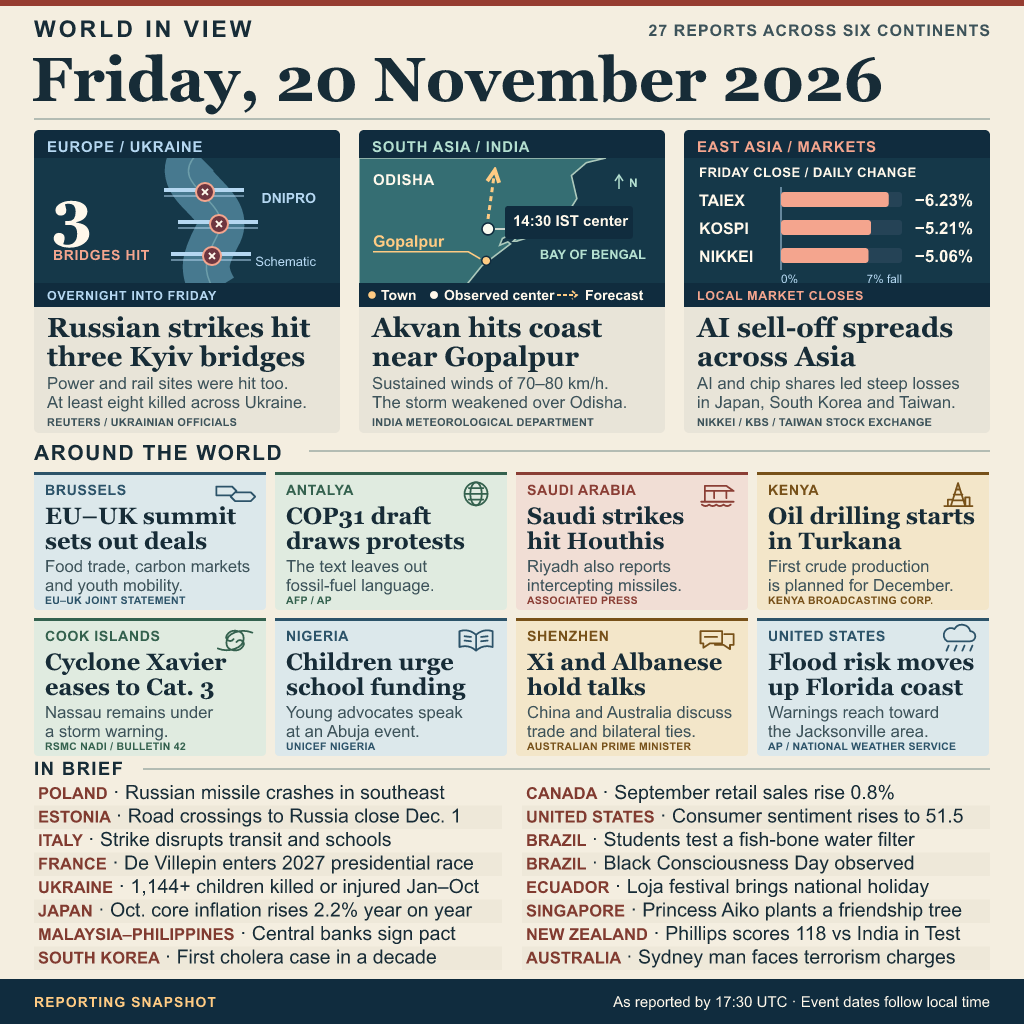
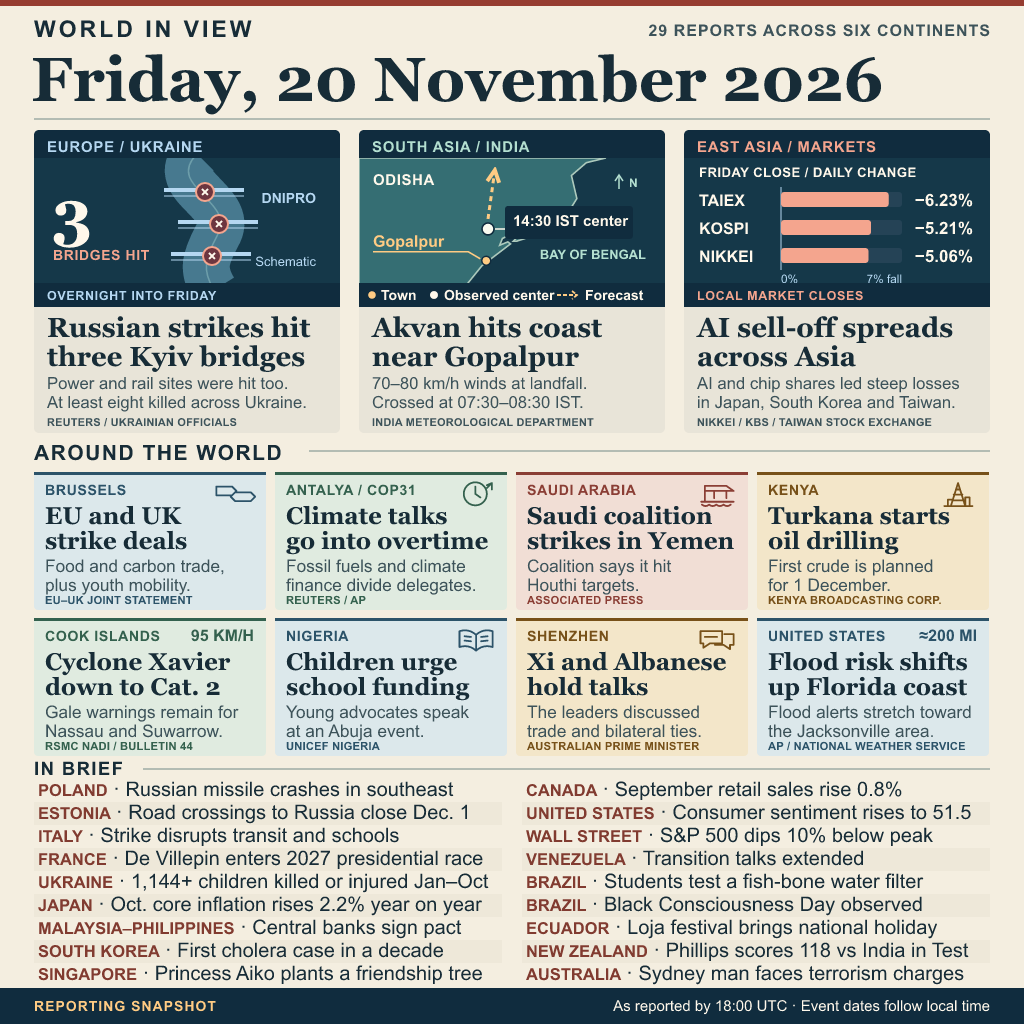
Update verified headlines and finish the 29-report edition

diff --git a/README.md b/README.md
@@ -4,7 +4,7 @@
 [![rank](https://make.fun/badge/news-image-20261120/yossapr/world-news-20261120/rank.svg)](https://make.fun/bounty/news-image-20261120/leaderboard)
 [![reward](https://make.fun/badge/news-image-20261120/yossapr/world-news-20261120/reward.svg)](https://make.fun/bounty/news-image-20261120)
 
-An illustrated snapshot of Friday, 20 November 2026, with 27 reports across six continents. It leads with the strikes in Ukraine, Cyclone Akvan's landfall in India, and the Asia-wide equity sell-off. The reporting cutoff is 17:30 UTC. Each event or material update is dated in its local time.
+An illustrated snapshot of Friday, 20 November 2026, with 29 reports across six continents. It leads with the strikes in Ukraine, Cyclone Akvan's landfall in India, and the Asia-wide equity sell-off. The reporting cutoff is 18:00 UTC. Each event or material update is dated in its local time.
 
 ![World in View front page](front-page.png)
 
@@ -23,14 +23,14 @@ Node 22 writes the checked-in edition to `entry.png` using the standard library.
 | Kyiv | Russian attacks overnight into Friday hit three Kyiv bridges over the Dnipro and damaged electricity and rail infrastructure. Officials reported six deaths in Kyiv and two in Lviv. The figure on the page is nationwide. | [Reuters](https://www.investing.com/news/commodities-news/eight-killed-in-ukraine-as-russia-hits-back-after-crimea-bridge-attacks-5041652) |
 | Akvan | Landfall near Gopalpur between 07:30 and 08:30 IST with 70–80 km/h sustained winds. The map shows the observed inland center at 14:30 IST, at 20.0°N, 84.9°E. | [IMD landfall release](https://internal.imd.gov.in/press_release/20261120_pr_5512.pdf), [IMD Bulletin 40](https://mausam.imd.gov.in/backend/assets/cyclone_pdf/40__National_Bulletin_No_40-20Nov2026_1430IST_docx.pdf) |
 | Asia equities | Friday's local closing changes were TAIEX −6.23%, KOSPI −5.21% and Nikkei 225 −5.06%. | [Taiwan Stock Exchange](https://www.twse.com.tw/exchangeReport/MI_INDEX?date=20261120&response=html&type=ALLBUT0999), [KBS](https://rki.kbs.co.kr/service/news_view.htm?Seq_Code=205717&lang=e), [Nikkei](https://indexes.nikkei.co.jp/nkave/archives/summary?dt=20261120&idx=nk225) |
-| Brussels | The EU–UK summit statement sets out steps on food trade, emissions trading and youth mobility. Further implementation remains ahead. | [EU–UK joint statement](https://assets.publishing.service.gov.uk/media/6b003dbde43662b58d107613/EU-UK_Summit_Joint_Statement_2026.docx.pdf) |
-| Antalya | Delegates and campaigners reacted on Friday to a COP31 draft that omitted fossil-fuel language. The visual describes the contested draft stage. | [AFP](https://www.afp.com/en/cop31-deal-elusive-fossil-fuel-fight-deepens), [AP](https://apnews.com/article/a683c5c87a7ee64caf4e9257948b6e40) |
-| Saudi Arabia and Yemen | AP reported Saudi strikes on Houthi targets and Saudi claims that it intercepted missiles. | [AP](https://apnews.com/article/16c39c487a23b53b73c5eabb7f0fd57a) |
-| Kenya | Gulf Energy began drilling in South Lokichar, Turkana. The December start date refers to planned oil production. | [Kenya Broadcasting Corporation](https://www.kbc.co.ke/kenya-begins-commercial-crude-oil-drilling-in-south-lokichar/) |
-| Cook Islands | RSMC Nadi reported Xavier at Category 3 and a continuing storm warning for Nassau. See Special Advisory 42, issued 20 November at 11:26 UTC. | [Fiji Meteorological Service warnings](https://www.met.gov.fj/warnings/) |
+| Brussels | Negotiations concluded on food checks, linking emissions trading systems and a youth mobility scheme. The agreements still require legal steps before taking effect. | [EU–UK joint statement, paragraphs 39 and 48–50](https://www.gov.uk/government/publications/ukeu-summit-2026-key-documents/uk-eu-summit-2026-joint-statement-html) |
+| Antalya | COP31 moved into overtime on Friday as delegations remained divided over fossil fuels and climate finance. An earlier draft omitted language on phasing out fossil fuels. | [Reuters](https://malaysia.news.yahoo.com/cop31-climate-talks-spill-overtime-150416330.html), [AP](https://apnews.com/article/a683c5c87a7ee64caf4e9257948b6e40) |
+| Saudi Arabia and Yemen | The Saudi-led coalition said Friday it struck Houthi targets in Yemen. | [AP](https://apnews.com/article/16c39c487a23b53b73c5eabb7f0fd57a) |
+| Kenya | Gulf Energy began drilling in South Lokichar, Turkana. The planned date for first oil production is 1 December. | [Kenya Broadcasting Corporation](https://www.kbc.co.ke/kenya-begins-commercial-crude-oil-drilling-in-south-lokichar/) |
+| Cook Islands | RSMC Nadi's Special Weather Bulletin 44, issued at 17:36 UTC, classified Xavier as Category 2 at 15:00 UTC with sustained winds around 95 km/h. Gale warnings remained in force for Suwarrow and Nassau. | [Fiji Meteorological Service warnings](https://www.met.gov.fj/warnings/) |
 | Nigeria | Children advocated for investment in survival and learning at the World Children's Day event in Abuja. | [UNICEF Nigeria](https://www.unicef.org/nigeria/press-releases/nigerian-children-call-all-stakeholders-make-their-survival-learning-and-future-a-shared-responsibility) |
 | China and Australia | Xi Jinping and Anthony Albanese met in Shenzhen on Friday and discussed bilateral and economic ties. | [Australian prime minister's press conference](https://www.pm.gov.au/media/press-conference-shenzhen-china-20-november-2026), [Chinese foreign ministry](https://www.mfa.gov.cn/mfa_eng./xw/zyxw/202611/t20261120_12063986.html) |
-| Florida | Flood warnings and watches extended north along the Atlantic coast toward Jacksonville. | [AP citing the National Weather Service](https://apnews.com/article/46b14622b3ad77c32eb0182bfe8bc9f4) |
+| Florida | Flood warnings and watches extended for about 200 miles along the Atlantic coast from south of Melbourne toward Jacksonville. | [AP citing the National Weather Service](https://apnews.com/article/46b14622b3ad77c32eb0182bfe8bc9f4) |
 | Poland | A Russian cruise missile crashed in southeastern Poland during the overnight attack. | [AP](https://apnews.com/article/63386266cef90907913df2b456808a4d) |
 | Estonia | Estonia announced that road border crossings with Russia would close from 1 December. | [Estonian foreign ministry](https://www.vm.ee/en/news/foreign-minister-tsahkna-border-closure-russias-hostile-activities-against-estonia-and-europe) |
 | Italy | A nationwide strike affected transport and schools. | [AP](https://apnews.com/article/8a742daa7242c84d99307c1fcc864f62) |
@@ -45,6 +45,8 @@ Node 22 writes the checked-in edition to `entry.png` using the standard library.
 | Brazil / culture | Black Consciousness Day was observed on Friday. Public activities highlighted Afro-Brazilian culture, memory and education. | [Brazilian Ministry of Culture](https://www.gov.br/cultura/pt-br/assuntos/noticias/minc-celebra-o-dia-da-consciencia-negra-com-acoes-afirmativas-e-programacao-cultural), [Ceará government](https://www.ce.gov.br/2026/11/20/dia-da-consciencia-negra-marca-a-trajetoria-de-geracoes-pelo-direito-a-educacao-a-memoria-e-ao-respeito/) |
 | Ecuador | A nationwide day off on Friday supported the arts festival taking place in Loja. | [Ecuadorian vice presidency](https://www.vicepresidencia.gob.ec/el-feriado-nacional-del-20-de-noviembre-se-mantiene-esmeraldas-y-loja-tendran-un-dia-adicional-de-descanso/), [Loja festival programme](https://festivaldeloja.com/wp-content/uploads/2026/11/PROGRAMA-DE-MANO-LOJA-2026-1-combined-1-compressed_compressed.pdf) |
 | United States | Friday's final November consumer sentiment reading rose to 51.5 from 48.0 in October. | [University of Michigan](https://www.sca.isr.umich.edu/), [Axios](https://www.axios.com/2026/11/20/consumer-sentiment-midterms-energy) |
+| Wall Street | The S&P 500 traded roughly 10% below its recent record during Friday's session. The percentage is a drawdown from the peak, measured intraday. | [AP](https://apnews.com/article/c4c3f4878b12989347f8a930ed813dad), [Reuters Friday morning](https://www.marketscreener.com/news/tech-stocks-tumble-treasury-yields-fall-as-traders-seek-refuge-ce785ed3da81f423) |
+| Venezuela | Friday reporting said government and opposition delegations would extend their fourth round of negotiations while technical groups continued work on political guarantees and other issues. | [EFE](https://www.infobae.com/america/agencias/2026/11/20/chavismo-y-oposicion-extienden-la-cuarta-ronda-de-dialogo-por-trabajo-en-mesas-tecnicas/) |
 | Singapore | Princess Aiko planted a commemorative fukugi tree at Singapore's Japanese Garden on Friday during her official visit. | [Singapore foreign ministry](https://www.mfa.gov.sg/newsroom/press-statements-transcripts-and-photos/official-visit-by-her-imperial-highness-princess-aiko-of-japan-17-to-21-november-2026/), [The Japan Times](https://www.japantimes.co.jp/news/2026/11/20/japan/princess-aiko-tree-singapore/) |
 | Australia | Police charged a man in Sydney with terrorism-related offences. The case concerns charges, with no finding of guilt. | [New South Wales Police](https://ebizprd.police.nsw.gov.au/media/129826.html), [AP](https://apnews.com/article/02f9088f02b09d5e0783b862ad64c0fa) |
 
